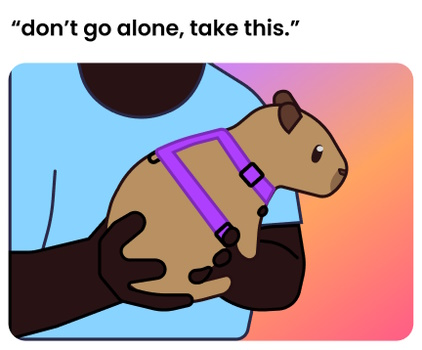
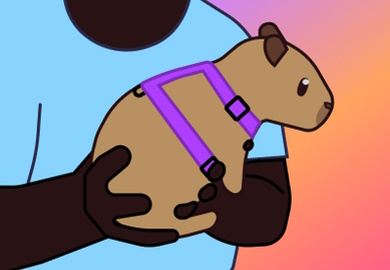
Starter shaders

diff --git a/index.html b/index.html
@@ -44,7 +44,7 @@
 
     <article>
       <h2>Catcoin is the new Dogecoin</h2>
-      <canvas class="glslCanvas" data-fragment-url="image-shader.frag" data-textures="image.jpg" width="276" height="345"/>
+      <canvas class="glslCanvas" data-fragment-url="image-shader.frag" data-textures="image.jpg" width="390" height="270"/>
       <p>
         Written by <a href="https://wiki.teamfortress.com/wiki/Engineer">Dell Conagher</a> on
         2021-05-04
